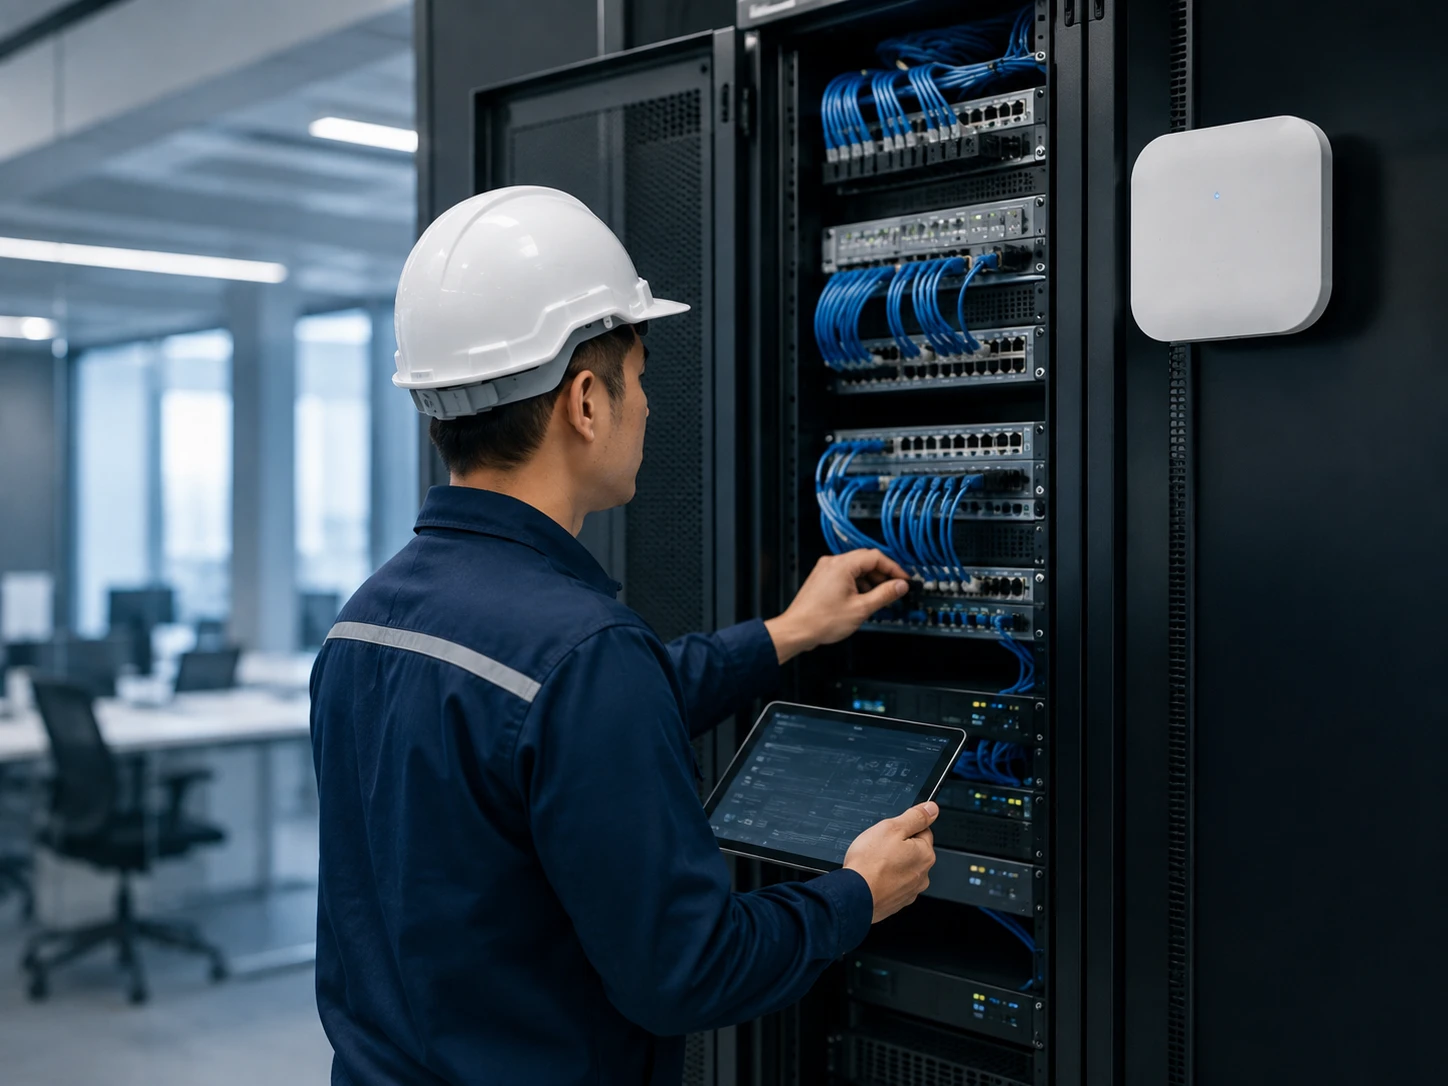
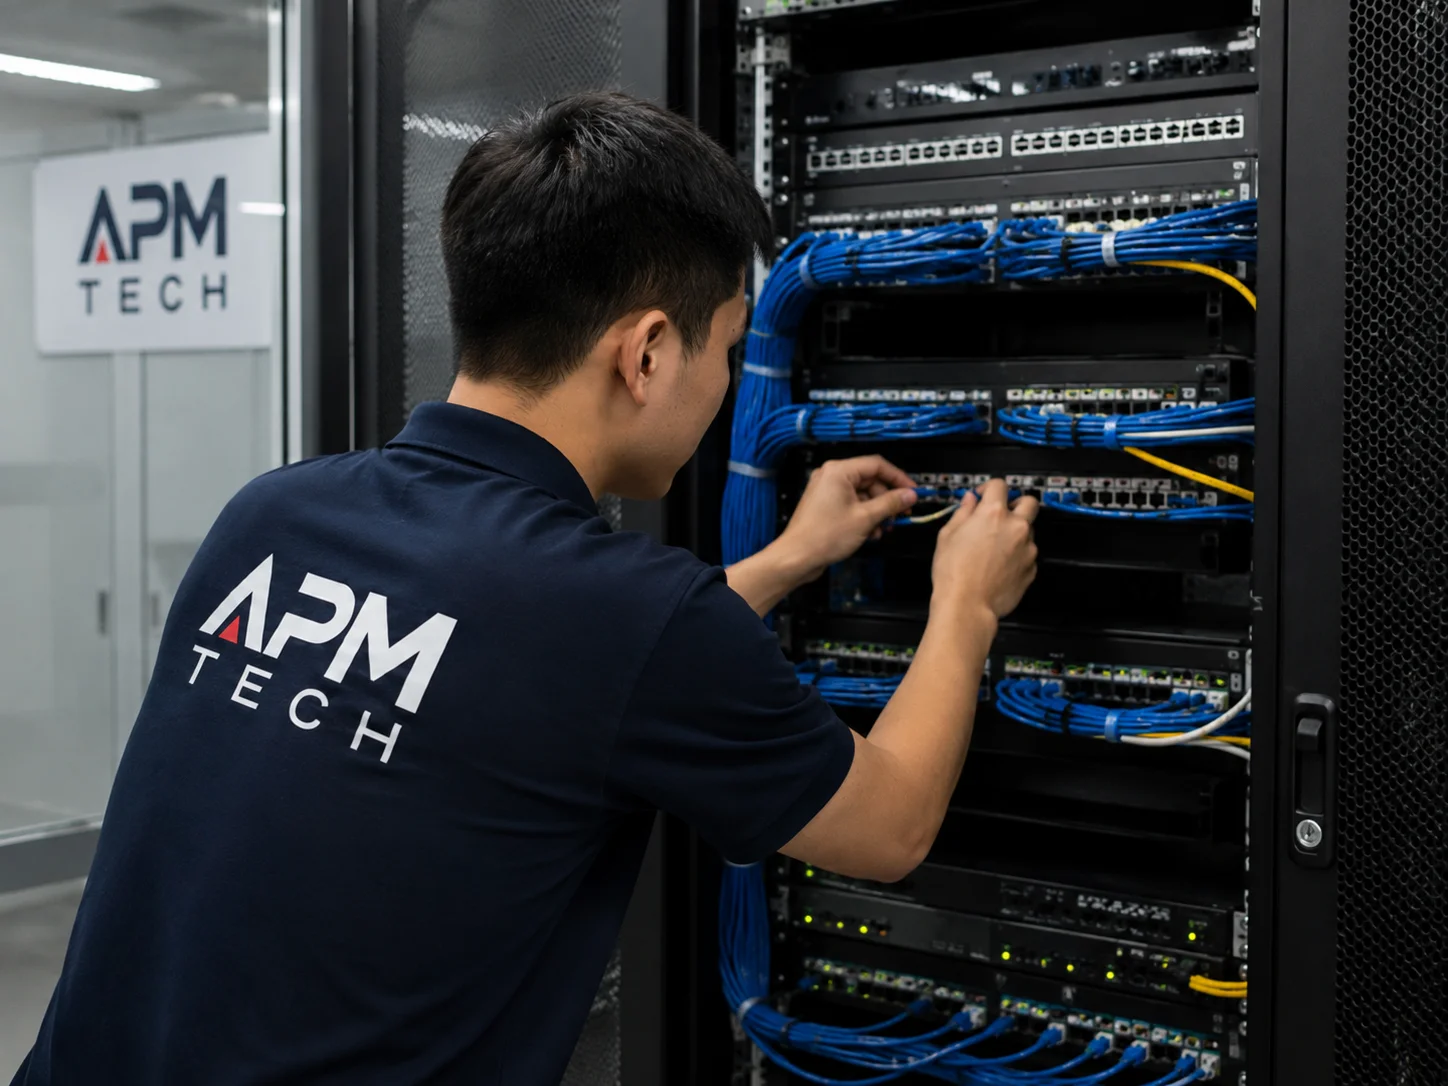
Use authentic APM Tech branded photos, add images to /solutions page
Replaced the 4 generic stock photos (Camera & An ninh, Hệ thống mạng,
Kiểm soát ra vào, Hệ thống điện nhẹ) with real client-supplied photos
showing technicians in APM Tech-branded uniforms doing the actual
work — much stronger than stock. These automatically apply to both
the homepage Solutions cards and the newly-added /solutions page card
photos (VI + EN), which previously had no images at all.

diff --git a/app/(public)/solutions/page.tsx b/app/(public)/solutions/page.tsx
@@ -1,7 +1,9 @@
 import type { Metadata } from "next";
+import Image from "next/image";
 import { getDictionary } from "@/lib/i18n";
 import { Section } from "@/components/ui/Section";
 import { SectionHeading } from "@/components/ui/SectionHeading";
+import { SOLUTION_IMAGES } from "@/lib/media/service-images";
 
 export const metadata: Metadata = {
   title: "Giải pháp",
@@ -19,18 +21,35 @@ export default function SolutionsPage() {
       <SectionHeading title={solutionsPage.title} subtitle={solutionsPage.subtitle} />
 
       <div className="mt-12 grid gap-6 lg:grid-cols-2">
-        {solutionsPage.items.map((item) => (
-          <div key={item.title} className="rounded-lg border border-brand-border p-7">
-            <h2 className="text-lg font-semibold text-brand-dark">{item.title}</h2>
-            <p className="mt-2 text-sm leading-relaxed text-brand-muted">{item.description}</p>
-            <ul className="mt-5 space-y-2.5 border-t border-brand-border pt-5">
-              {item.points.map((point) => (
-                <li key={point} className="flex gap-2.5 text-sm text-brand-dark/80">
-                  <span className="mt-2 h-1 w-1 shrink-0 rounded-full bg-brand-accent" />
-                  {point}
-                </li>
-              ))}
-            </ul>
+        {solutionsPage.items.map((item, i) => (
+          <div
+            key={item.title}
+            className="overflow-hidden rounded-lg border border-brand-border"
+          >
+            {SOLUTION_IMAGES[i] ? (
+              <div className="relative aspect-[16/9] w-full">
+                <Image
+                  src={SOLUTION_IMAGES[i]!}
+                  alt={item.title}
+                  fill
+                  loading="eager"
+                  sizes="(min-width: 1024px) 50vw, 100vw"
+                  className="object-cover"
+                />
+              </div>
+            ) : null}
+            <div className="p-7">
+              <h2 className="text-lg font-semibold text-brand-dark">{item.title}</h2>
+              <p className="mt-2 text-sm leading-relaxed text-brand-muted">{item.description}</p>
+              <ul className="mt-5 space-y-2.5 border-t border-brand-border pt-5">
+                {item.points.map((point) => (
+                  <li key={point} className="flex gap-2.5 text-sm text-brand-dark/80">
+                    <span className="mt-2 h-1 w-1 shrink-0 rounded-full bg-brand-accent" />
+                    {point}
+                  </li>
+                ))}
+              </ul>
+            </div>
           </div>
         ))}
       </div>

diff --git a/app/en/solutions/page.tsx b/app/en/solutions/page.tsx
@@ -1,7 +1,9 @@
 import type { Metadata } from "next";
+import Image from "next/image";
 import { getDictionary } from "@/lib/i18n";
 import { Section } from "@/components/ui/Section";
 import { SectionHeading } from "@/components/ui/SectionHeading";
+import { SOLUTION_IMAGES } from "@/lib/media/service-images";
 
 export const metadata: Metadata = {
   title: "Solutions",
@@ -19,18 +21,35 @@ export default function EnSolutionsPage() {
       <SectionHeading title={solutionsPage.title} subtitle={solutionsPage.subtitle} />
 
       <div className="mt-12 grid gap-6 lg:grid-cols-2">
-        {solutionsPage.items.map((item) => (
-          <div key={item.title} className="rounded-lg border border-brand-border p-7">
-            <h2 className="text-lg font-semibold text-brand-dark">{item.title}</h2>
-            <p className="mt-2 text-sm leading-relaxed text-brand-muted">{item.description}</p>
-            <ul className="mt-5 space-y-2.5 border-t border-brand-border pt-5">
-              {item.points.map((point) => (
-                <li key={point} className="flex gap-2.5 text-sm text-brand-dark/80">
-                  <span className="mt-2 h-1 w-1 shrink-0 rounded-full bg-brand-accent" />
-                  {point}
-                </li>
-              ))}
-            </ul>
+        {solutionsPage.items.map((item, i) => (
+          <div
+            key={item.title}
+            className="overflow-hidden rounded-lg border border-brand-border"
+          >
+            {SOLUTION_IMAGES[i] ? (
+              <div className="relative aspect-[16/9] w-full">
+                <Image
+                  src={SOLUTION_IMAGES[i]!}
+                  alt={item.title}
+                  fill
+                  loading="eager"
+                  sizes="(min-width: 1024px) 50vw, 100vw"
+                  className="object-cover"
+                />
+              </div>
+            ) : null}
+            <div className="p-7">
+              <h2 className="text-lg font-semibold text-brand-dark">{item.title}</h2>
+              <p className="mt-2 text-sm leading-relaxed text-brand-muted">{item.description}</p>
+              <ul className="mt-5 space-y-2.5 border-t border-brand-border pt-5">
+                {item.points.map((point) => (
+                  <li key={point} className="flex gap-2.5 text-sm text-brand-dark/80">
+                    <span className="mt-2 h-1 w-1 shrink-0 rounded-full bg-brand-accent" />
+                    {point}
+                  </li>
+                ))}
+              </ul>
+            </div>
           </div>
         ))}
       </div>
